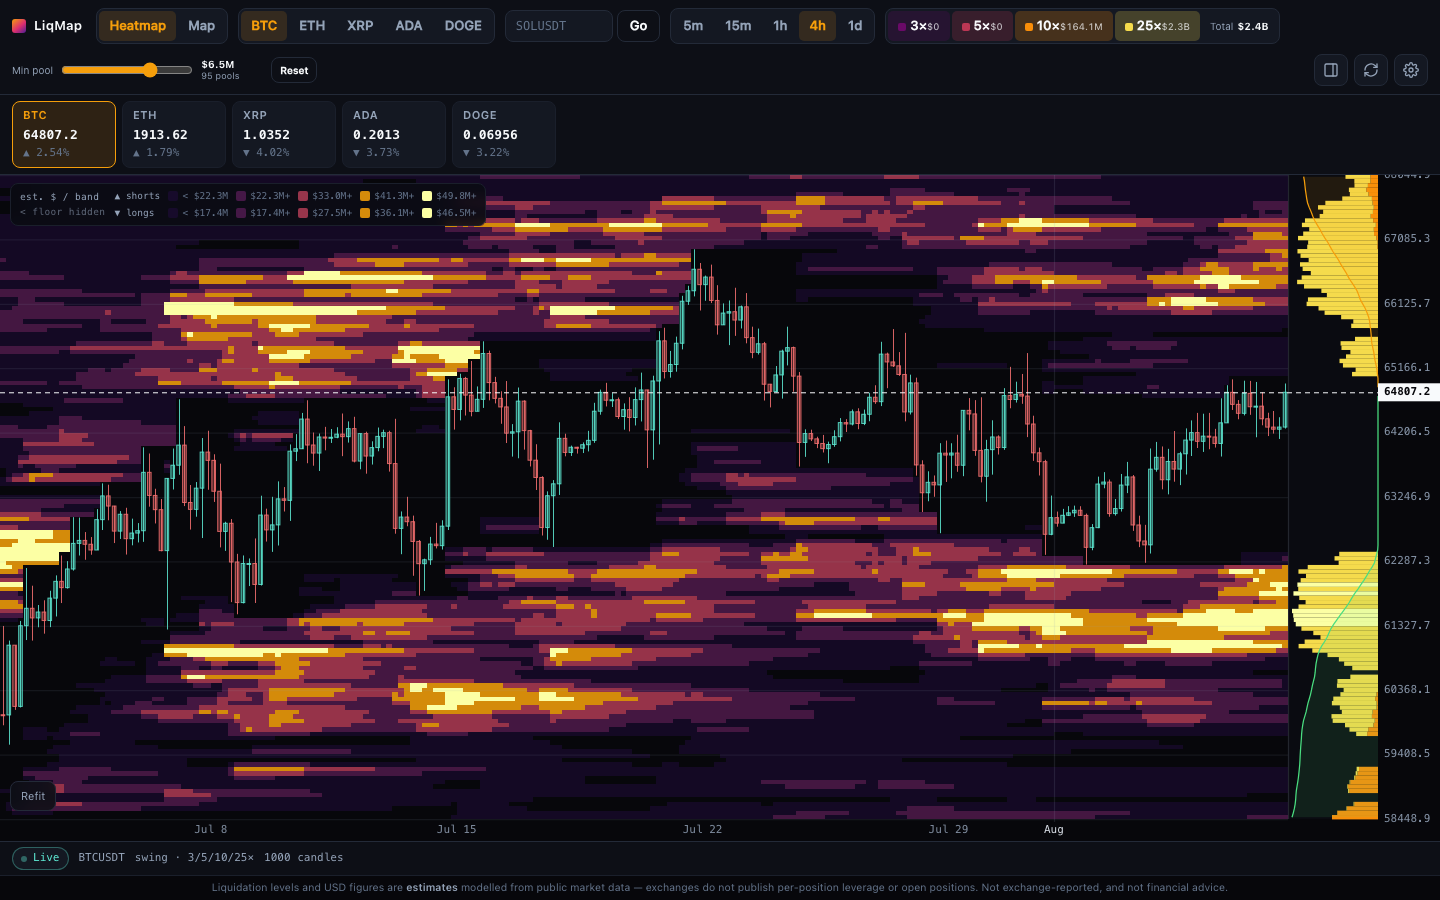
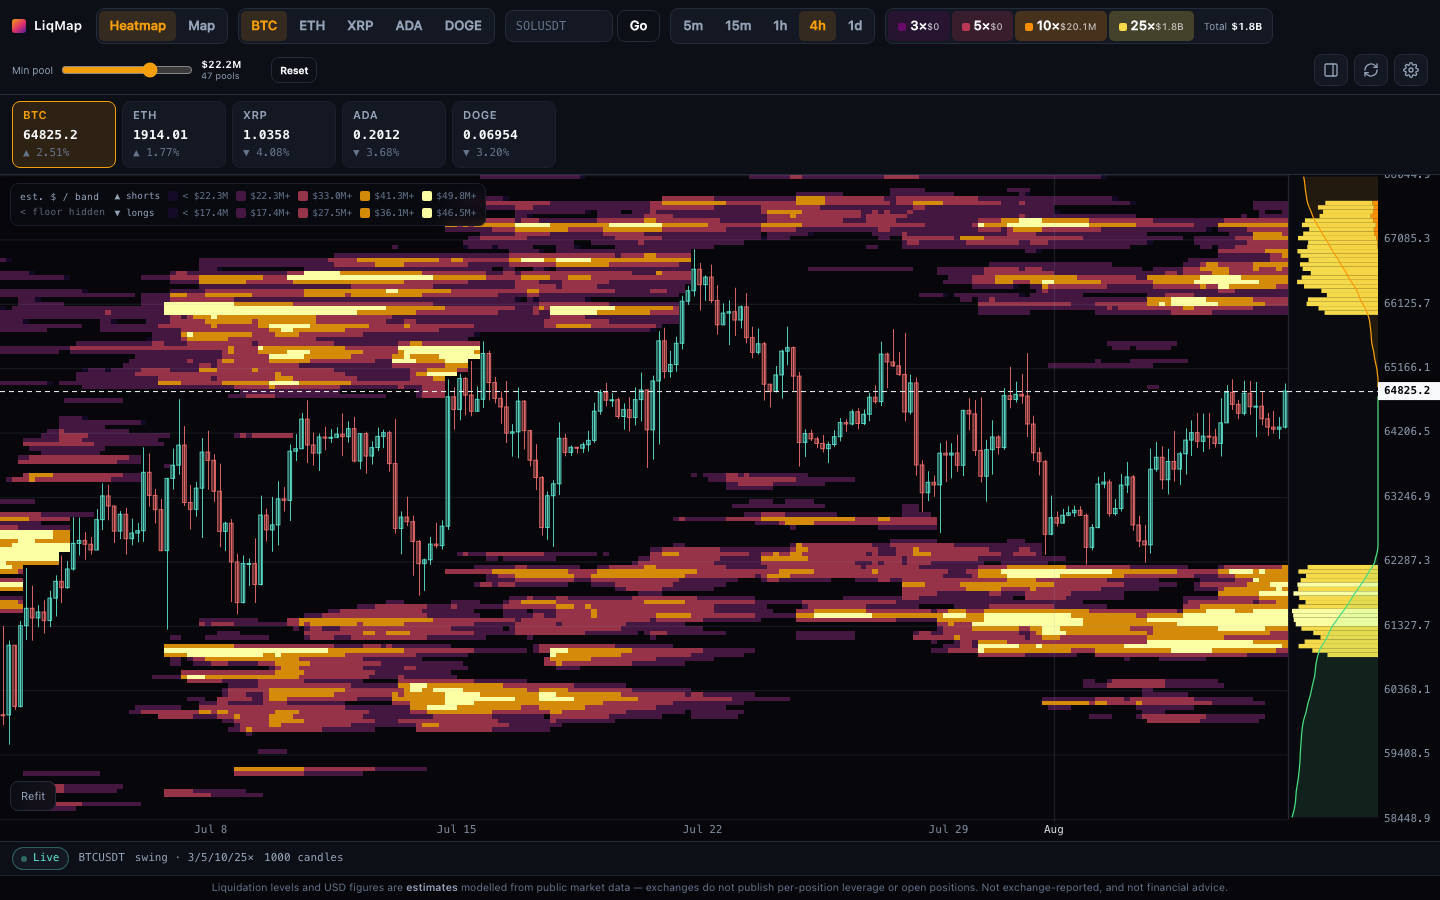
docs: crisp rendering + threshold; deterministic surface probe
The surface probe snapshotted the audit hook once and then hovered 20 points
over ~5s, so an OI refresh mid-sweep reported a divergence that was the
probe's lag rather than the app's (1 on one run, 0 on the next). It now
re-reads the hook per point; 0 divergences on every run since.

diff --git a/README.md b/README.md
@@ -186,8 +186,27 @@ naturally to one bucket per row. Before this, one source pixel per bucket meant 
 nearest-neighbour sampling silently discarded every bucket that didn't land on an output
 row — levels flickered with zoom and the chart read as 1px static. The side panel is built
 on the same row grid, so bars are exactly as tall as the bands they describe. A "Smooth
-rendering" toggle (default on) softens band edges on the upscale; off keeps crisp blocks.
+rendering" toggle (default **off**) softens band edges on the upscale. Measured live at
+BTCUSDT 4h, smoothing on left 57.3% of heat pixels interpolated rather than palette colours,
+**zero** hard class edges anywhere in the plot, and the five designed alphas spread across
+199 distinct values — soft, glowy, and with no definite band position, which also reads as
+misalignment. Off measures 2.9% interpolated, 15,501 hard edges, exactly the five alphas.
 Display only — tooltips read the raw buckets either way.
+
+### Minimum-pool threshold
+
+A log-scaled slider hides every pool below a chosen est. USD, so the chart thins to only
+the levels worth reacting to. Its travel spans the *actual* pool range on screen (smallest
+to largest) rather than a fixed decade count — measured on BTCUSDT 4h the pools ran
+$2.3M–$51.2M, so a fixed 3-decade slider did nothing across its whole bottom half. Position
+0 is a true zero: "show all" is reachable, not merely approached.
+
+The filter runs on the shared band series, not per renderer, so the heatmap raster, the side
+panel and the Map hide exactly the same pools. The USD cut-off is converted to raw engine
+units per side from a scale *snapshot* pinned to the dataset — a live OI-varying input in
+the paint would re-grade history on a tick and break the stability contract below. Each tier
+chip carries its est. USD among the visible, above-threshold pools, with a combined total,
+and the threshold is remembered per symbol and timeframe.
 
 ### Intra-candle stability
 
